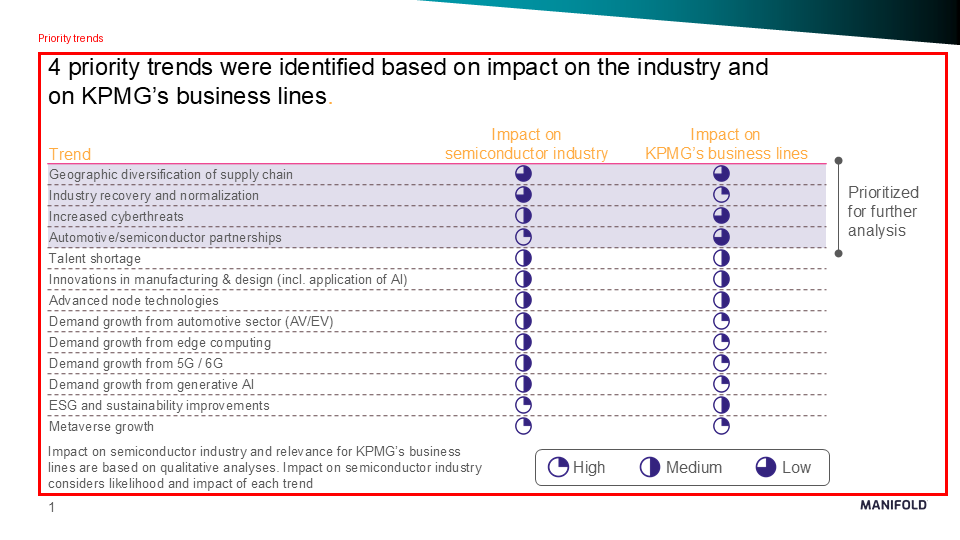
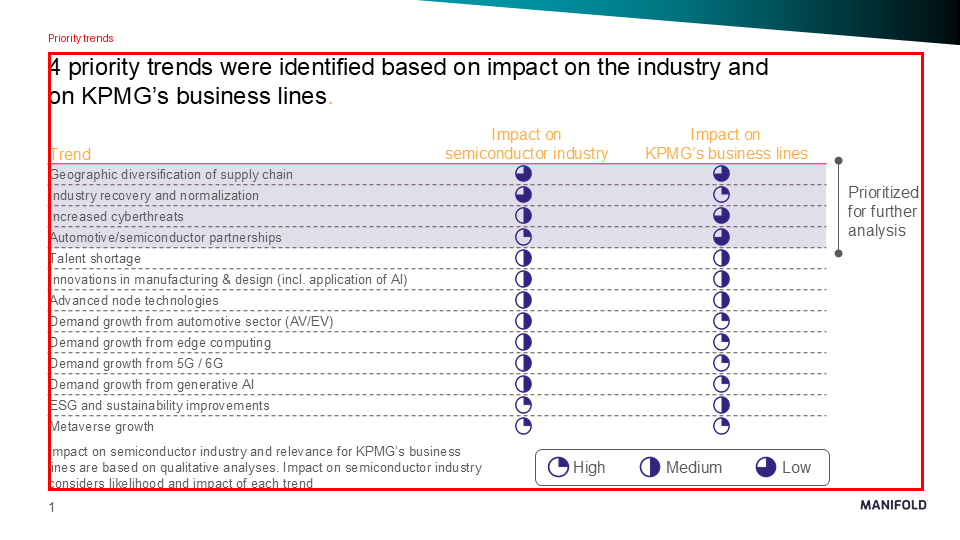
Added function to detect actual text bounds, not textbox bounds

Changed region(s): [[0.0312, 0.0593, 1.0, 0.9185], [0.9688, 0.0889, 1.0, 0.1185]]

diff --git a/base.py b/base.py
@@ -88,6 +88,16 @@ def get_shape_info(shape):
     }
     return shape_info
 
+def get_text_pos(shape):
+    return {
+        'top': shape.TextFrame2.TextRange.BoundTop,
+        'left': shape.TextFrame2.TextRange.BoundLeft,
+        'width': shape.TextFrame2.TextRange.BoundWidth,
+        'height': shape.TextFrame2.TextRange.BoundHeight,
+        'right': shape.TextFrame2.TextRange.BoundLeft + shape.TextFrame2.TextRange.BoundWidth,
+        'bottom': shape.TextFrame2.TextRange.BoundTop + shape.TextFrame2.TextRange.BoundHeight,
+    }
+
 
 def classify_shapes(slide):
     textboxes = []

diff --git a/llm_tests/llm_pic_to_descs.py b/llm_tests/llm_pic_to_descs.py
@@ -139,6 +139,13 @@ def extract_shape_descriptions(slide):
     
     for x in textboxes:
         d = base.get_shape_info(x)
+        pos_dict = base.get_text_pos(x)
+        d['top'] = pos_dict['top']
+        d['left'] = pos_dict['left']
+        d['width'] = pos_dict['width']
+        d['height'] = pos_dict['height']
+        d['right'] = pos_dict['right']
+        d['bottom'] = pos_dict['bottom']
         d['description'] = get_description_textbox(x)
         all_elements_dl.append(d)
 
